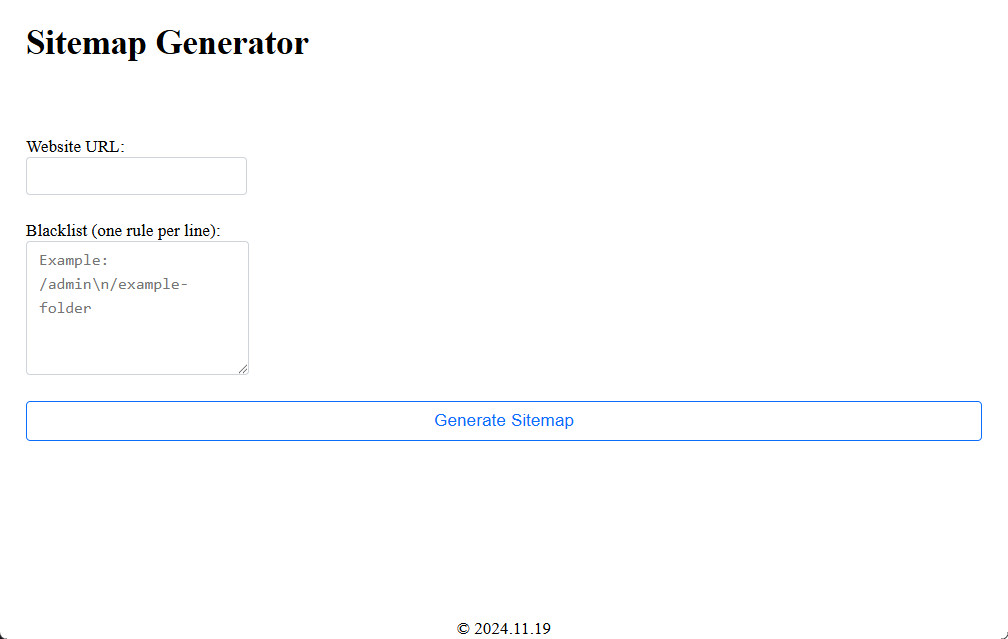
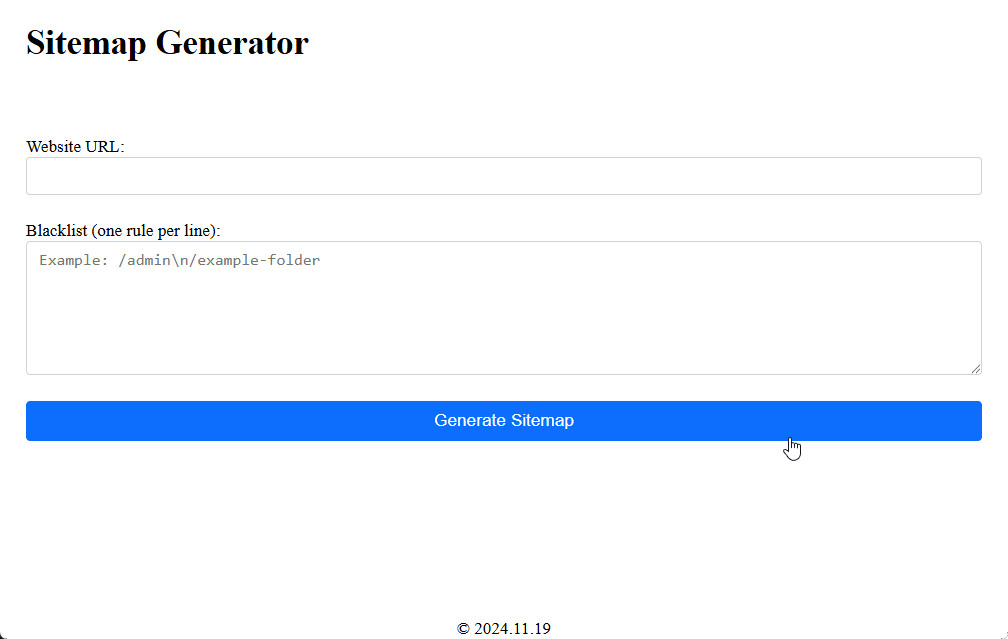
wider text inputs

Changed region(s): [[0.0, 0.6244, 0.9841, 0.7136], [0.0308, 0.3865, 0.3075, 0.5055]]

diff --git a/smg.php b/smg.php
@@ -203,7 +203,7 @@
 		}
 		input, textarea{
 			display:block;
-
+			width: 100%;
 			padding: 6px 12px;
 			font-size: 16px;
 			font-weight: 400;
@@ -222,7 +222,6 @@
 			    outline: 0;
 			    box-shadow: 0 0 0 0.25rem rgb(13 110 253 / 25%);
 			}
-
 		}
 		button{
 			cursor: pointer;
@@ -244,7 +243,6 @@
 			    background-color: #0d6efd;
 			    border-color: #0d6efd;
 			}
-
 		}
 	</style>
 </head>
